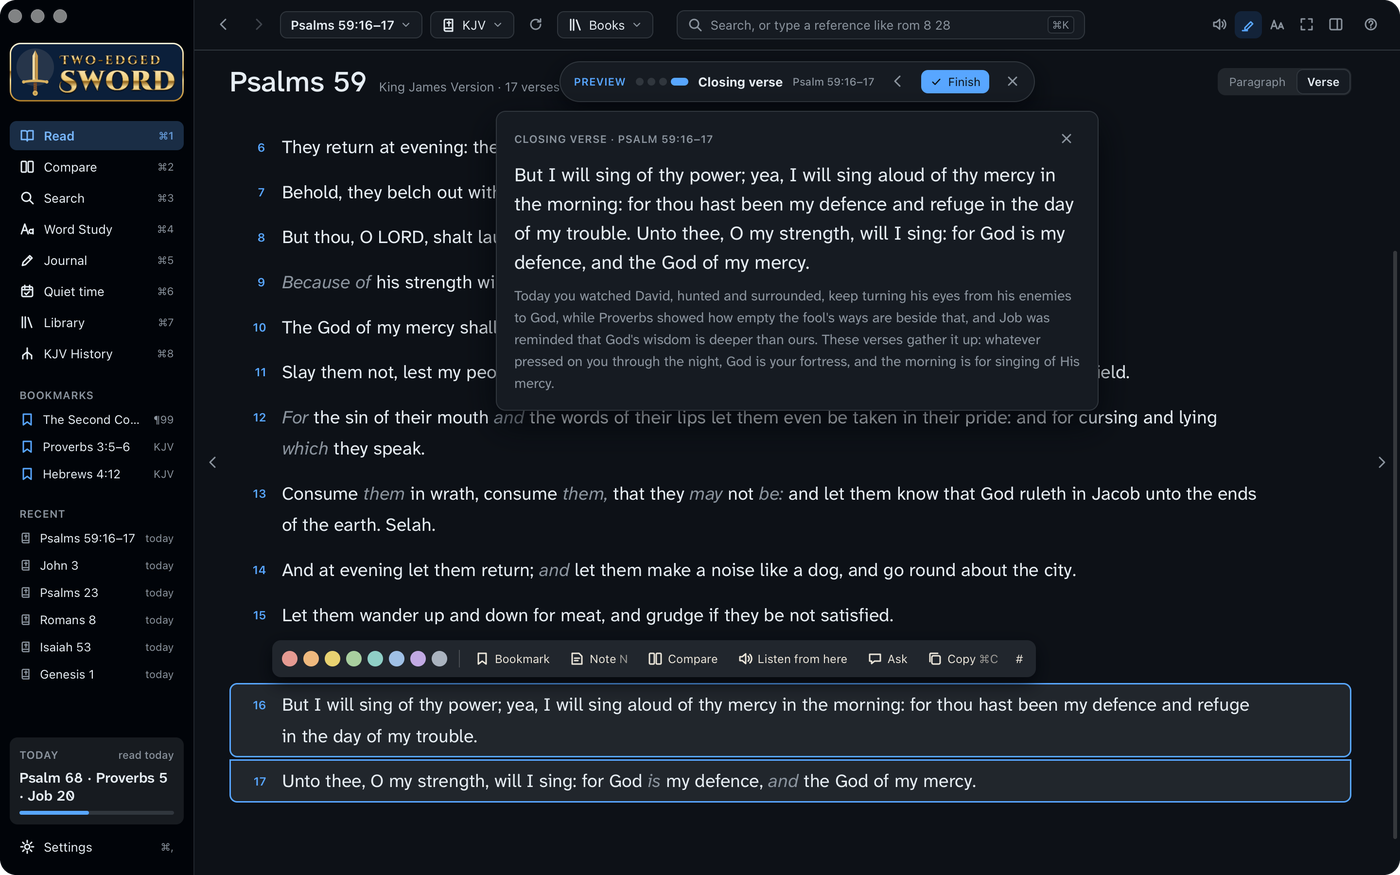
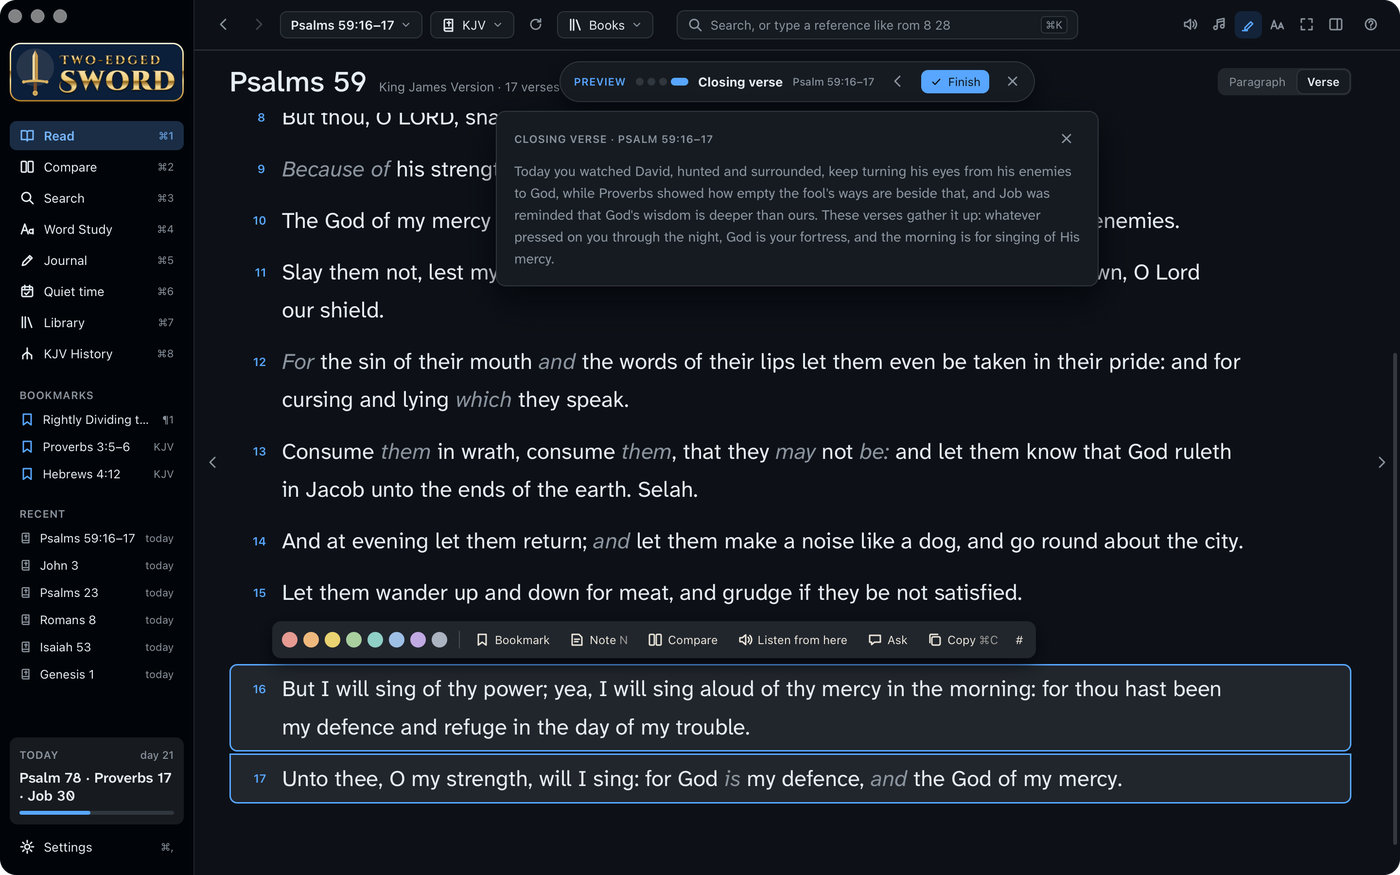
Skipping in Quiet time stops what's being read at once (F7, F9 and the media keys), the pause before the next part coming after it in silence; the closing verse card says only how the passage sums up the day, the passage being lit in the chapter behind it; and on Windows the media controls skip and 

diff --git a/src/QuietTime.tsx b/src/QuietTime.tsx
@@ -15,7 +15,7 @@ import { useEffect, useRef, useState } from "react";
 import { Working } from "./Ask";
 import { api, isReadOnly, MusicState } from "./api";
 import { book, psalmLabel } from "./bible";
-import { docSegments, plainText } from "./esword";
+import { docSegments } from "./esword";
 import { Icon, Pause, Play } from "./icons";
 import {
   current,
@@ -425,7 +425,11 @@ export function QuietTime({ focus }: { focus: boolean }) {
   useEffect(() => {
     if (!s) return;
     const me = {
-      step: (d: 1 | -1) => goRef.current(d),
+      // Pressed: what's being read stops now, rather than after the pause before the next part.
+      step: (d: 1 | -1) => {
+        player.stop();
+        goRef.current(d);
+      },
       start: () => {
         const x = sRef.current;
         if (x) {
@@ -669,7 +673,7 @@ export function QuietTime({ focus }: { focus: boolean }) {
             zIndex: 45,
           }}
         >
-          <ClosingCard key={s.started} picked={step.picked} bible={step.bible} readIn={readIn} onReadNow={() => setReadIn(0)} />
+          <ClosingCard key={s.started} picked={step.picked} readIn={readIn} onReadNow={() => setReadIn(0)} />
         </div>
       )}
       {step.kind === "worship" && (
@@ -864,33 +868,20 @@ function WorshipCard({
   );
 }
 
-/** Under the bar during the closing verse: the passage's words, what the day's readings came to,
- *  and how the passage sums it up. The chapter is open behind it, the passage lit. */
+/** Under the bar during the closing verse: what the day's readings came to, and how the passage
+ *  sums it up. The passage itself is lit in the chapter open behind it, so it isn't repeated here. */
 function ClosingCard({
   picked,
-  bible,
   readIn,
   onReadNow,
 }: {
   picked: Closing;
-  bible: string;
   /** Seconds until it's read aloud, with audio. */
   readIn: number | null;
   onReadNow: () => void;
 }) {
   const [hidden, setHidden] = useState(false);
   const drag = useDrag(true);
-  const [words, setWords] = useState("");
-  useEffect(() => {
-    let dead = false;
-    api
-      .passages(bible, [{ book: picked.b, chapter: picked.c, from: picked.v, to: picked.v2 ?? picked.v }])
-      .then(([p]) => !dead && setWords(p.verses.map((x) => plainText(x.text)).join(" ")))
-      .catch(() => {});
-    return () => {
-      dead = true;
-    };
-  }, [bible, picked.b, picked.c, picked.v, picked.v2]);
   if (hidden) return null;
   return (
     <div
@@ -924,7 +915,6 @@ function ClosingCard({
           <Icon name="x" />
         </button>
       </div>
-      {words && <p style={{ margin: 0, font: "400 20px/1.5 var(--serif)" }}>{words}</p>}
       {picked.why && <p style={{ margin: 0, font: "400 14.5px/1.55 var(--serif)", color: "var(--muted)" }}>{picked.why}</p>}
       {picked.note && (
         <div className="hint" style={{ fontSize: 12.5 }}>

diff --git a/src/localMusic.ts b/src/localMusic.ts
@@ -7,6 +7,7 @@
 
 import { invoke } from "@tauri-apps/api/core";
 import type { MusicState, MusicTrack } from "./api";
+import { isMac } from "./keys";
 
 interface FileTrack extends MusicTrack {
   album: string;
@@ -57,9 +58,38 @@ async function start(i: number) {
       if (queue[at] === t) extra = x;
     })
     .catch(() => {});
+  shown(t);
   await audio.play();
 }
 audio.addEventListener("ended", () => void start(at + 1).catch(() => stop()));
+
+// Windows' media controls (the keys, the panel by the volume) show the page's own session while a
+// song plays: it says which song, with its artwork, and takes next and previous as Music would.
+// Never on macOS, where media.rs has the keys and the songs play in Music.
+const session = !isMac && "mediaSession" in navigator ? navigator.mediaSession : null;
+let cover = "";
+function shown(t: FileTrack) {
+  if (!session) return;
+  session.metadata = new MediaMetadata({ title: t.name, artist: t.artist, album: t.album });
+  invoke<ArrayBuffer>("music_file_artwork", { path: t.id })
+    .then((bytes) => {
+      if (queue[at] !== t || !bytes.byteLength || !session.metadata) return;
+      URL.revokeObjectURL(cover);
+      cover = URL.createObjectURL(new Blob([bytes]));
+      session.metadata.artwork = [{ src: cover }];
+    })
+    .catch(() => {});
+}
+/** Back to the start of the song, or, near its start, the song before. */
+const previous = () => {
+  if (audio.currentTime > 3 || at <= 0) audio.currentTime = 0;
+  else void start(at - 1).catch(() => stop());
+};
+session?.setActionHandler("play", () => void fileControl("play"));
+session?.setActionHandler("pause", () => void fileControl("pause"));
+session?.setActionHandler("nexttrack", () => void fileControl("next"));
+session?.setActionHandler("previoustrack", previous);
+session?.setActionHandler("stop", () => void fileControl("stop"));
 
 function stop() {
   queue = [];
@@ -69,6 +99,7 @@ function stop() {
   audio.load();
   URL.revokeObjectURL(url);
   url = "";
+  if (session) session.metadata = null;
 }
 
 /** Plays these songs in this order, once through; returns how many were found. */

diff --git a/docs/quiet-time.md b/docs/quiet-time.md
@@ -46,7 +46,7 @@ open the first.
 
 | Keys | Does |
 |---|---|
-| F7 and F9 | Previous or next part |
+| F7 and F9 | Previous or next part: what is being read stops at once |
 | F8 or ⌘P | Pause and resume reading aloud |
 
 ## Worship music
@@ -119,8 +119,8 @@ The first time, macOS asks whether the app may control Music.
 Turn it on in a plan's page. Quiet time then ends with a verse or short passage, chosen by the AI
 assistant to gather up what the day's reading taught.
 
-- The passage opens in the Bible reader, lit, with a card showing its words and a few sentences
-  on how it sums up the day.
+- The passage opens in the Bible reader, lit, with a card saying in a few sentences how it sums
+  up the day.
 - With audio, it is read aloud after a countdown that leaves time to read the card. **Read now**
   skips the wait.
 - It stays open when it's done. **Finish** ends Quiet time. With a favourite passage, that is read after it instead.
